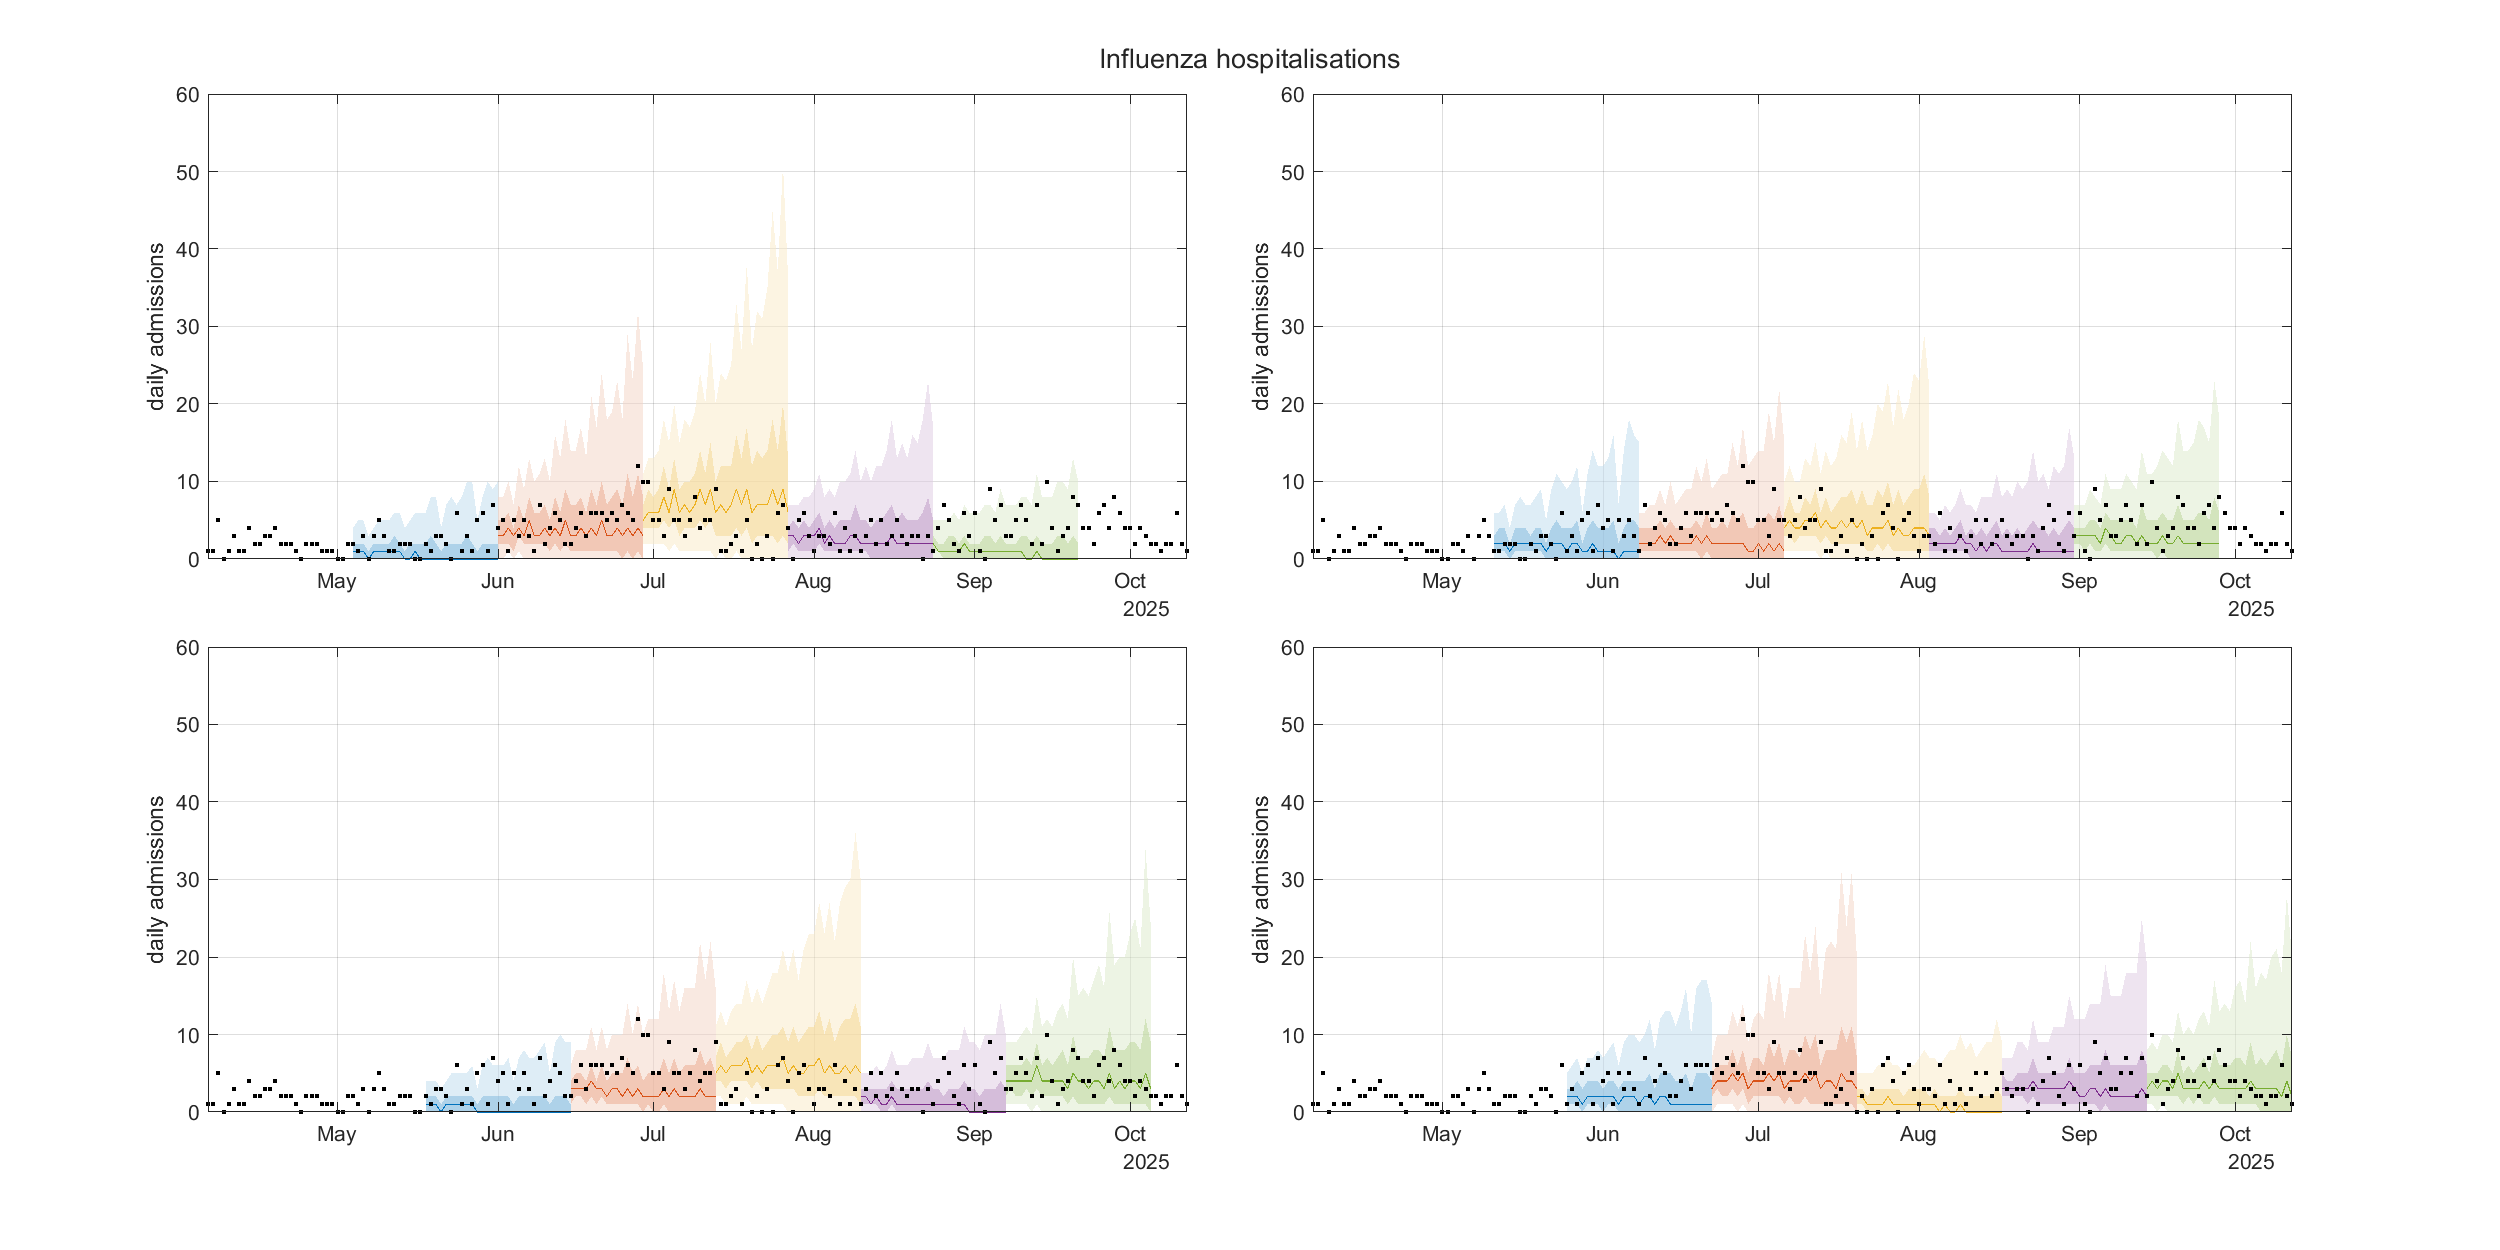
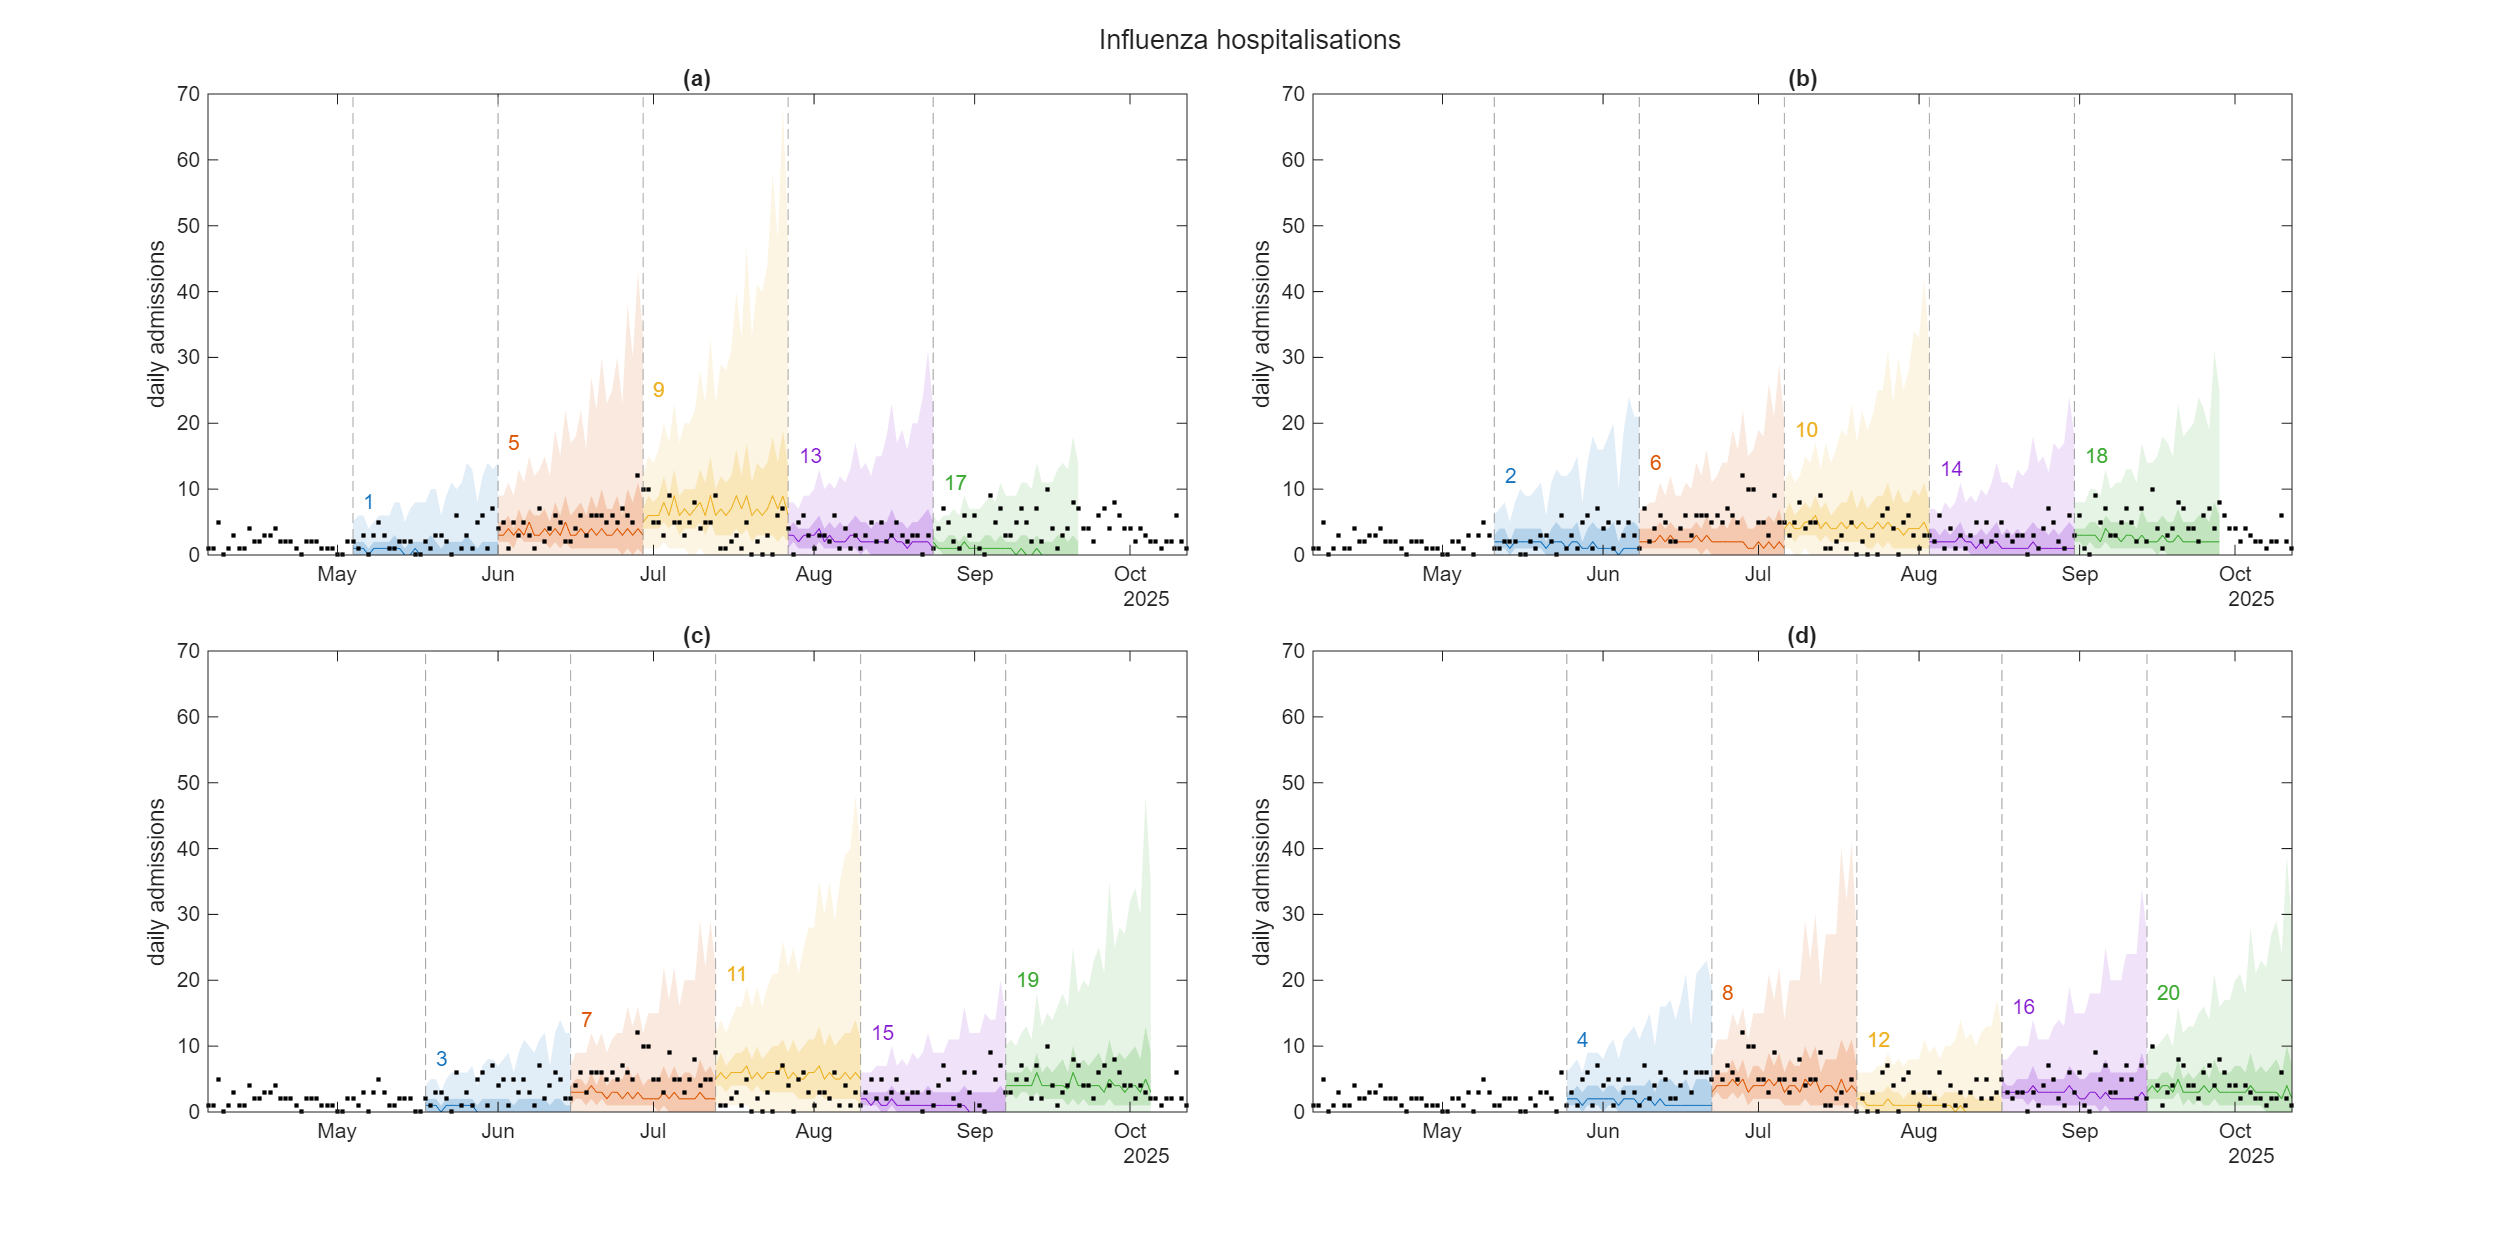
Plottiing updates

diff --git a/forecasting_code/plotRetrosepctive.m b/forecasting_code/plotRetrosepctive.m
@@ -61,13 +61,16 @@ fileNames.date_info = "date-information-";
 % colour settings
 nCols = 5;
 clrs = colororder;
+greyCol = [0.5 0.5 0.5];
 letters = ["(a)", "(b)", "(c)", "(d)"];
-
 
 % Set up mutli-pathogen figures
 h = figure(100);
 h.Position = [ 680   467   913   511];
 tiledlayout(2, 2, "TileSpacing", "compact");
+iTileScore = 0;
+
+vertGap = [2 2 1];
 
 % Get date information for the most recent file date
 date_info = getDateInfo(fileNames, fileDates(end));
@@ -192,6 +195,10 @@ for iPathogen = 1:nPathogens
 
         % Plot forecast
         myModelPlot(results(iOrigin).t, y, clrs(iCol, :));
+
+        % Annotate with origin date and round number
+        xline(origins(iOrigin), '--', 'color', greyCol);
+        text(origins(iOrigin)+2, max(y(end, 1:7))+vertGap(iPathogen), string(iOrigin), 'Color', clrs(iCol, :));
     end
 
     % Plot a copy of the same data into each axis
@@ -215,13 +222,13 @@ for iPathogen = 1:nPathogens
         % consistent
         h = gca;
         yUpper(iTile) = h.YLim(2);
+        title(letters(iTile));
     end
     % Set y-axis limits
     yMax = max(yUpper);
     for iTile = 1:4
         nexttile(iTile);
         ylim([0 yMax])
-        grid on
     end
     if pathogen_name(iPathogen) == "SARSCOV2"
         pathogen_title = "SARS-CoV-2";
@@ -264,6 +271,10 @@ for iPathogen = 1:nPathogens
 
             % Plot forecast
             myModelPlot(results(iOrigin).t, y, clrs(iCol, :));
+            
+            % Annotate with origin date and round number       
+            xline(origins(iOrigin), '--', 'color', greyCol)
+            text(origins(iOrigin)+2, max(y(end, 1:7))+vertGap(iPathogen), string(iOrigin), 'Color', clrs(iCol, :))
         end
     
         yUpper = zeros(4, 1);
@@ -282,13 +293,13 @@ for iPathogen = 1:nPathogens
             % Record the upper limit of the y-axis in each tile to make them consistent
             h = gca;
             yUpper(iTile) = h.YLim(2);
+            title(letters(iTile));
         end
         % Set y axis limits
         yMax = max(yUpper);
         for iTile = 1:4
             nexttile(iTile);
             ylim([0 yMax]);
-            grid on
         end
         if pathogen_name(iPathogen) == "SARSCOV2"
             pathogen_title = "SARS-CoV-2";
@@ -309,27 +320,29 @@ for iPathogen = 1:nPathogens
     tScore = 1:par.timeHorizon;
 
     h = figure(100);
-    nexttile;
+    iTileScore = iTileScore+1;
+    nexttile(iTileScore);
     plot(tScore, nanmean(scoreCases, 1), 'LineWidth', 2)
     ylim([0 0.65])
     grid on
     xlabel('time horizon (days)')
     ylabel('mean CRPS')
-    ttl = letters(iPathogen) + " " + pathogen_title;
+    ttl = letters(iTileScore) + " " + pathogen_title;
     if ~useHospAsCases
-        ttl = ttl + " case";
+        ttl = ttl + " cases";
     else
         ttl = ttl + " hospitalisations";
     end
     title(ttl);
     if ~useHospAsCases   
-        nexttile;
+        iTileScore = iTileScore+1;
+        nexttile(iTileScore);
         plot(tScore, nanmean(scoreHosp, 1), 'LineWidth', 2)
         ylim([0 0.65])
         grid on
         xlabel('time horizon (days)')
         ylabel('mean CRPS')
-        ttl = letters(iPathogen) + " " + pathogen_title + " hospitalisations";
+        ttl = letters(iTileScore) + " " + pathogen_title + " hospitalisations";
         title(ttl);
     end
 end
@@ -371,12 +384,23 @@ copyobj(ax1(4), tl);
 
 nexttile(1);
 title('(a) SARS-CoV-2 cases')
+h = gca;
+delete(findall(h.Children, 'Type', 'text'));
 nexttile(2);
 title('(b) SARS-CoV-2 hospitalisations')
+h = gca;
+delete(findall(h.Children, 'Type', 'text'));
 nexttile(3);
 title('(c) influenza hospitalisations')
+h = gca;
+delete(findall(h.Children, 'Type', 'text'));
 nexttile(4);
 title('(d) RSV hospitalisations')
+h = gca;
+delete(findall(h.Children, 'Type', 'text'));
+ylim([0 16])
+
+delete(findall(gcf, 'type', 'annotation'));
 
 fName = "forecasts_all_pathogens.png";
 saveas(h, fileNames.figureFolder+fName);
